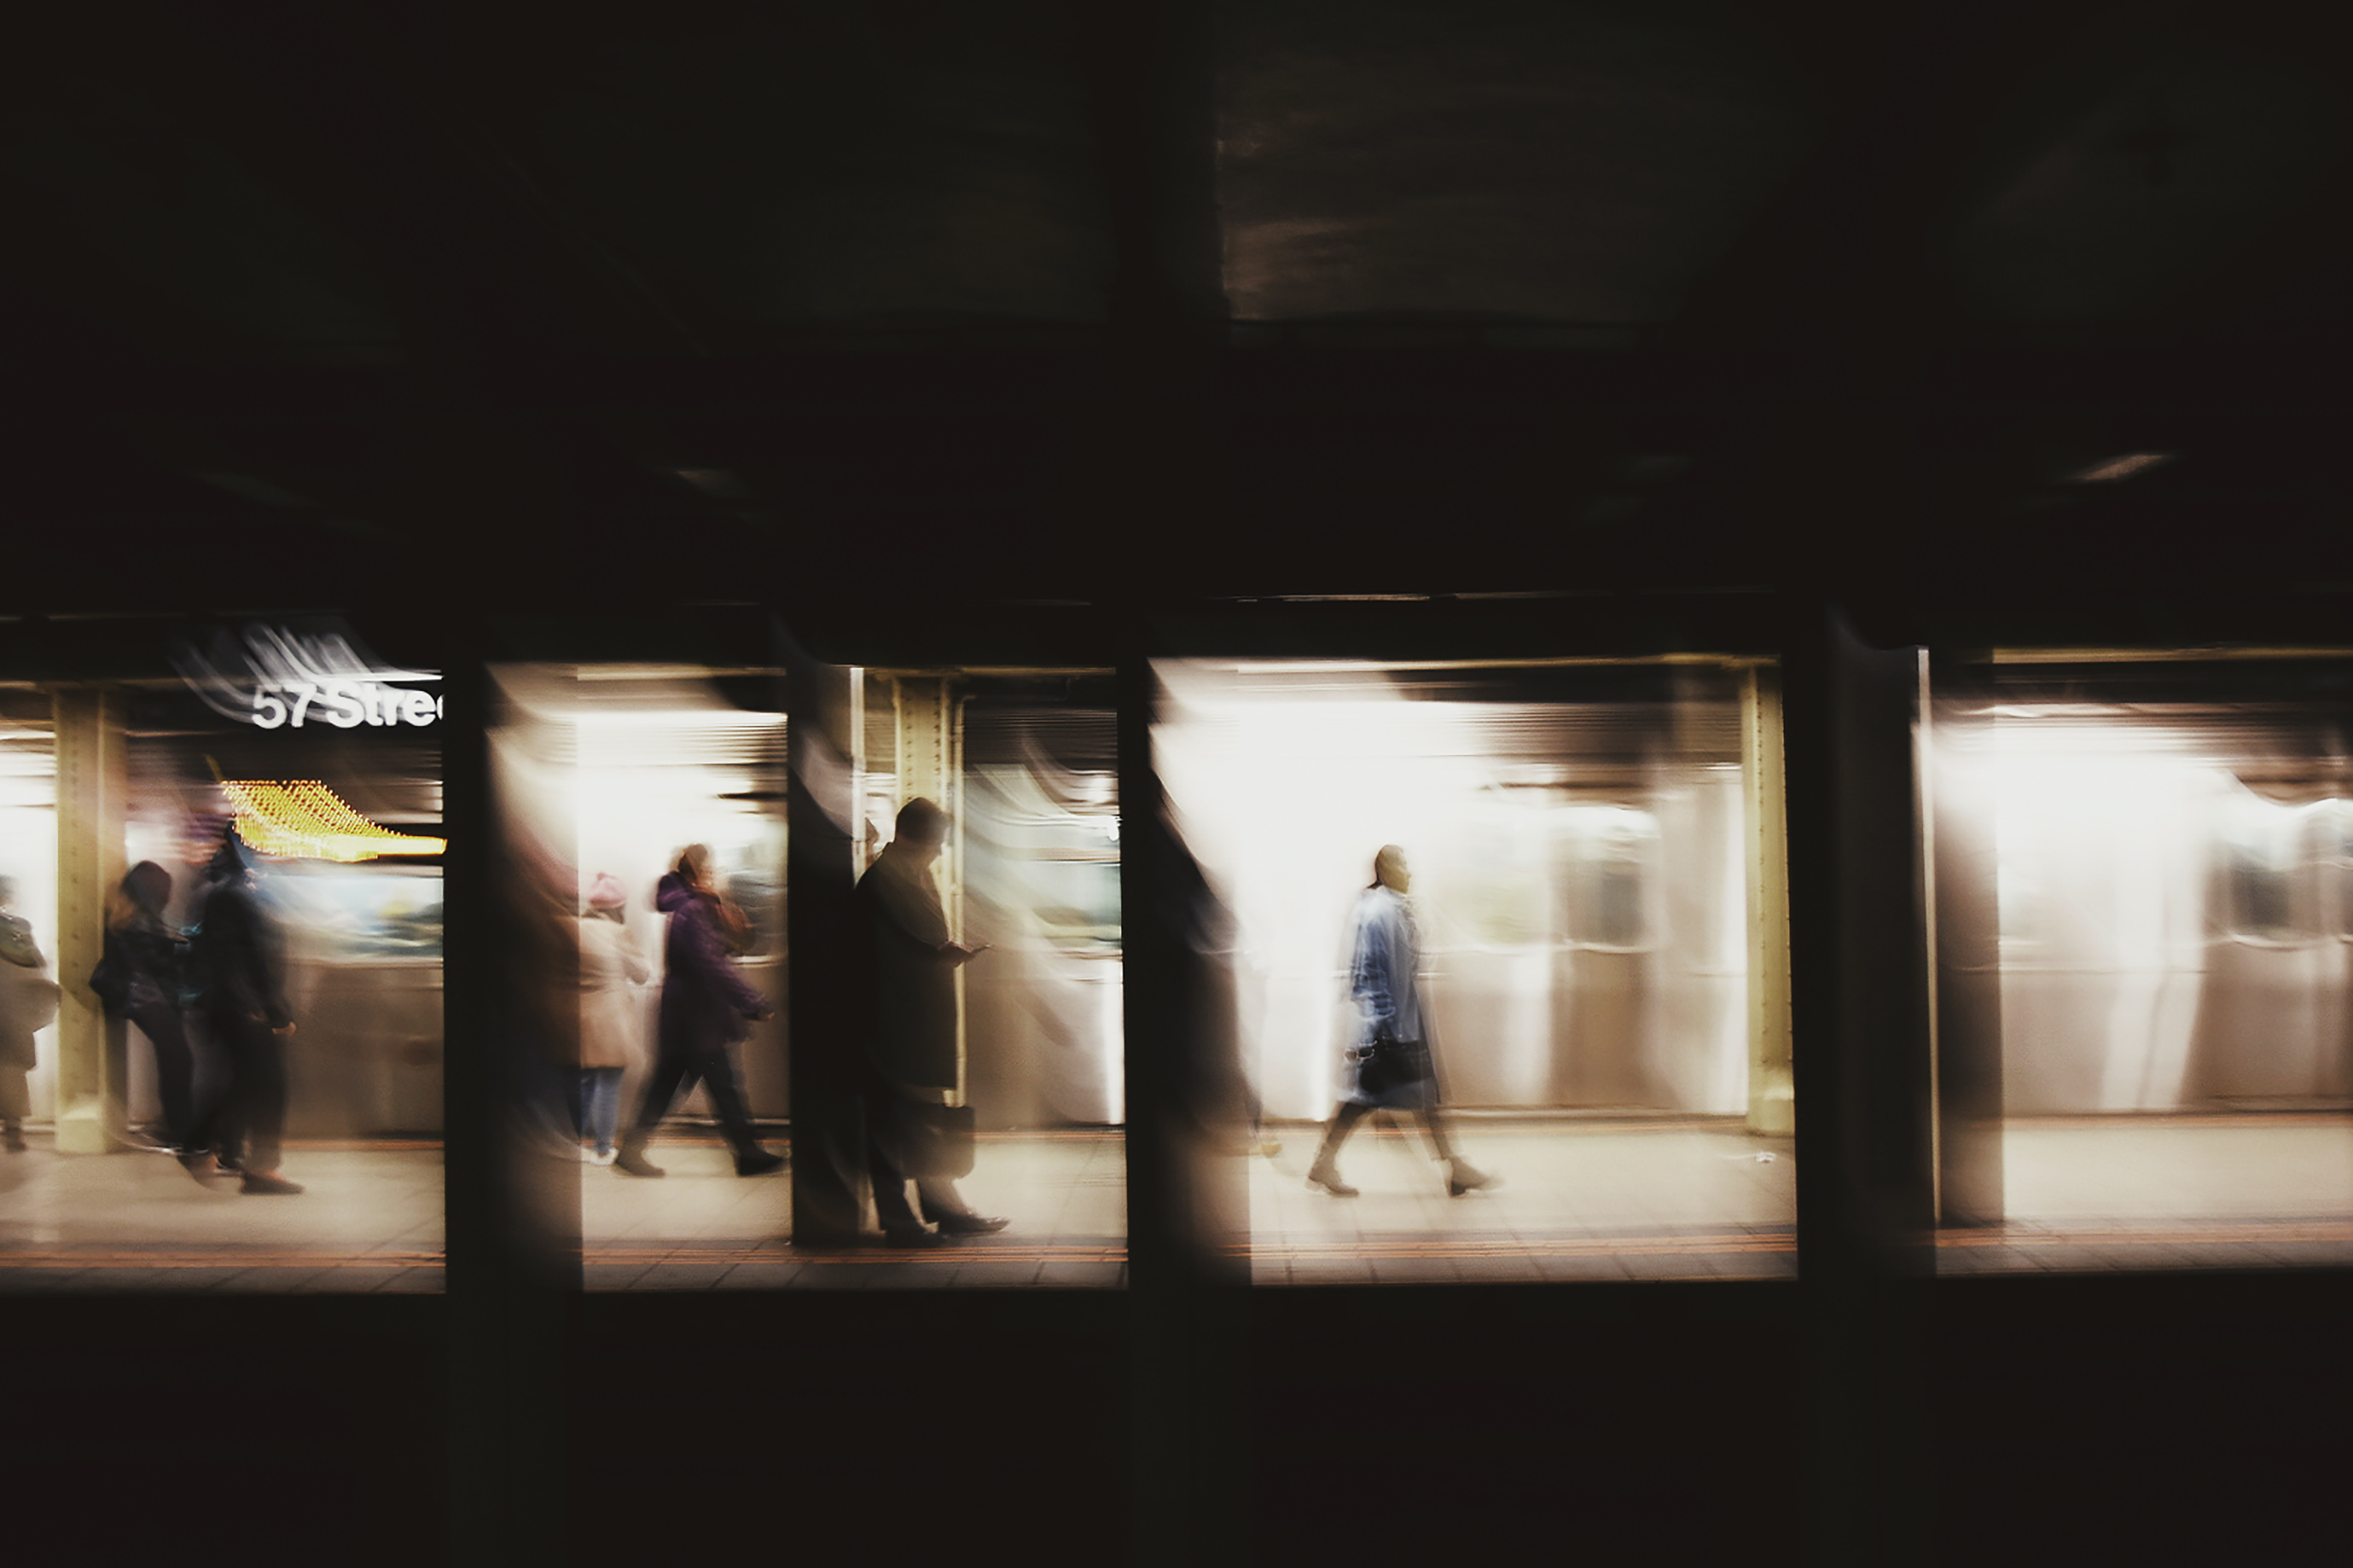
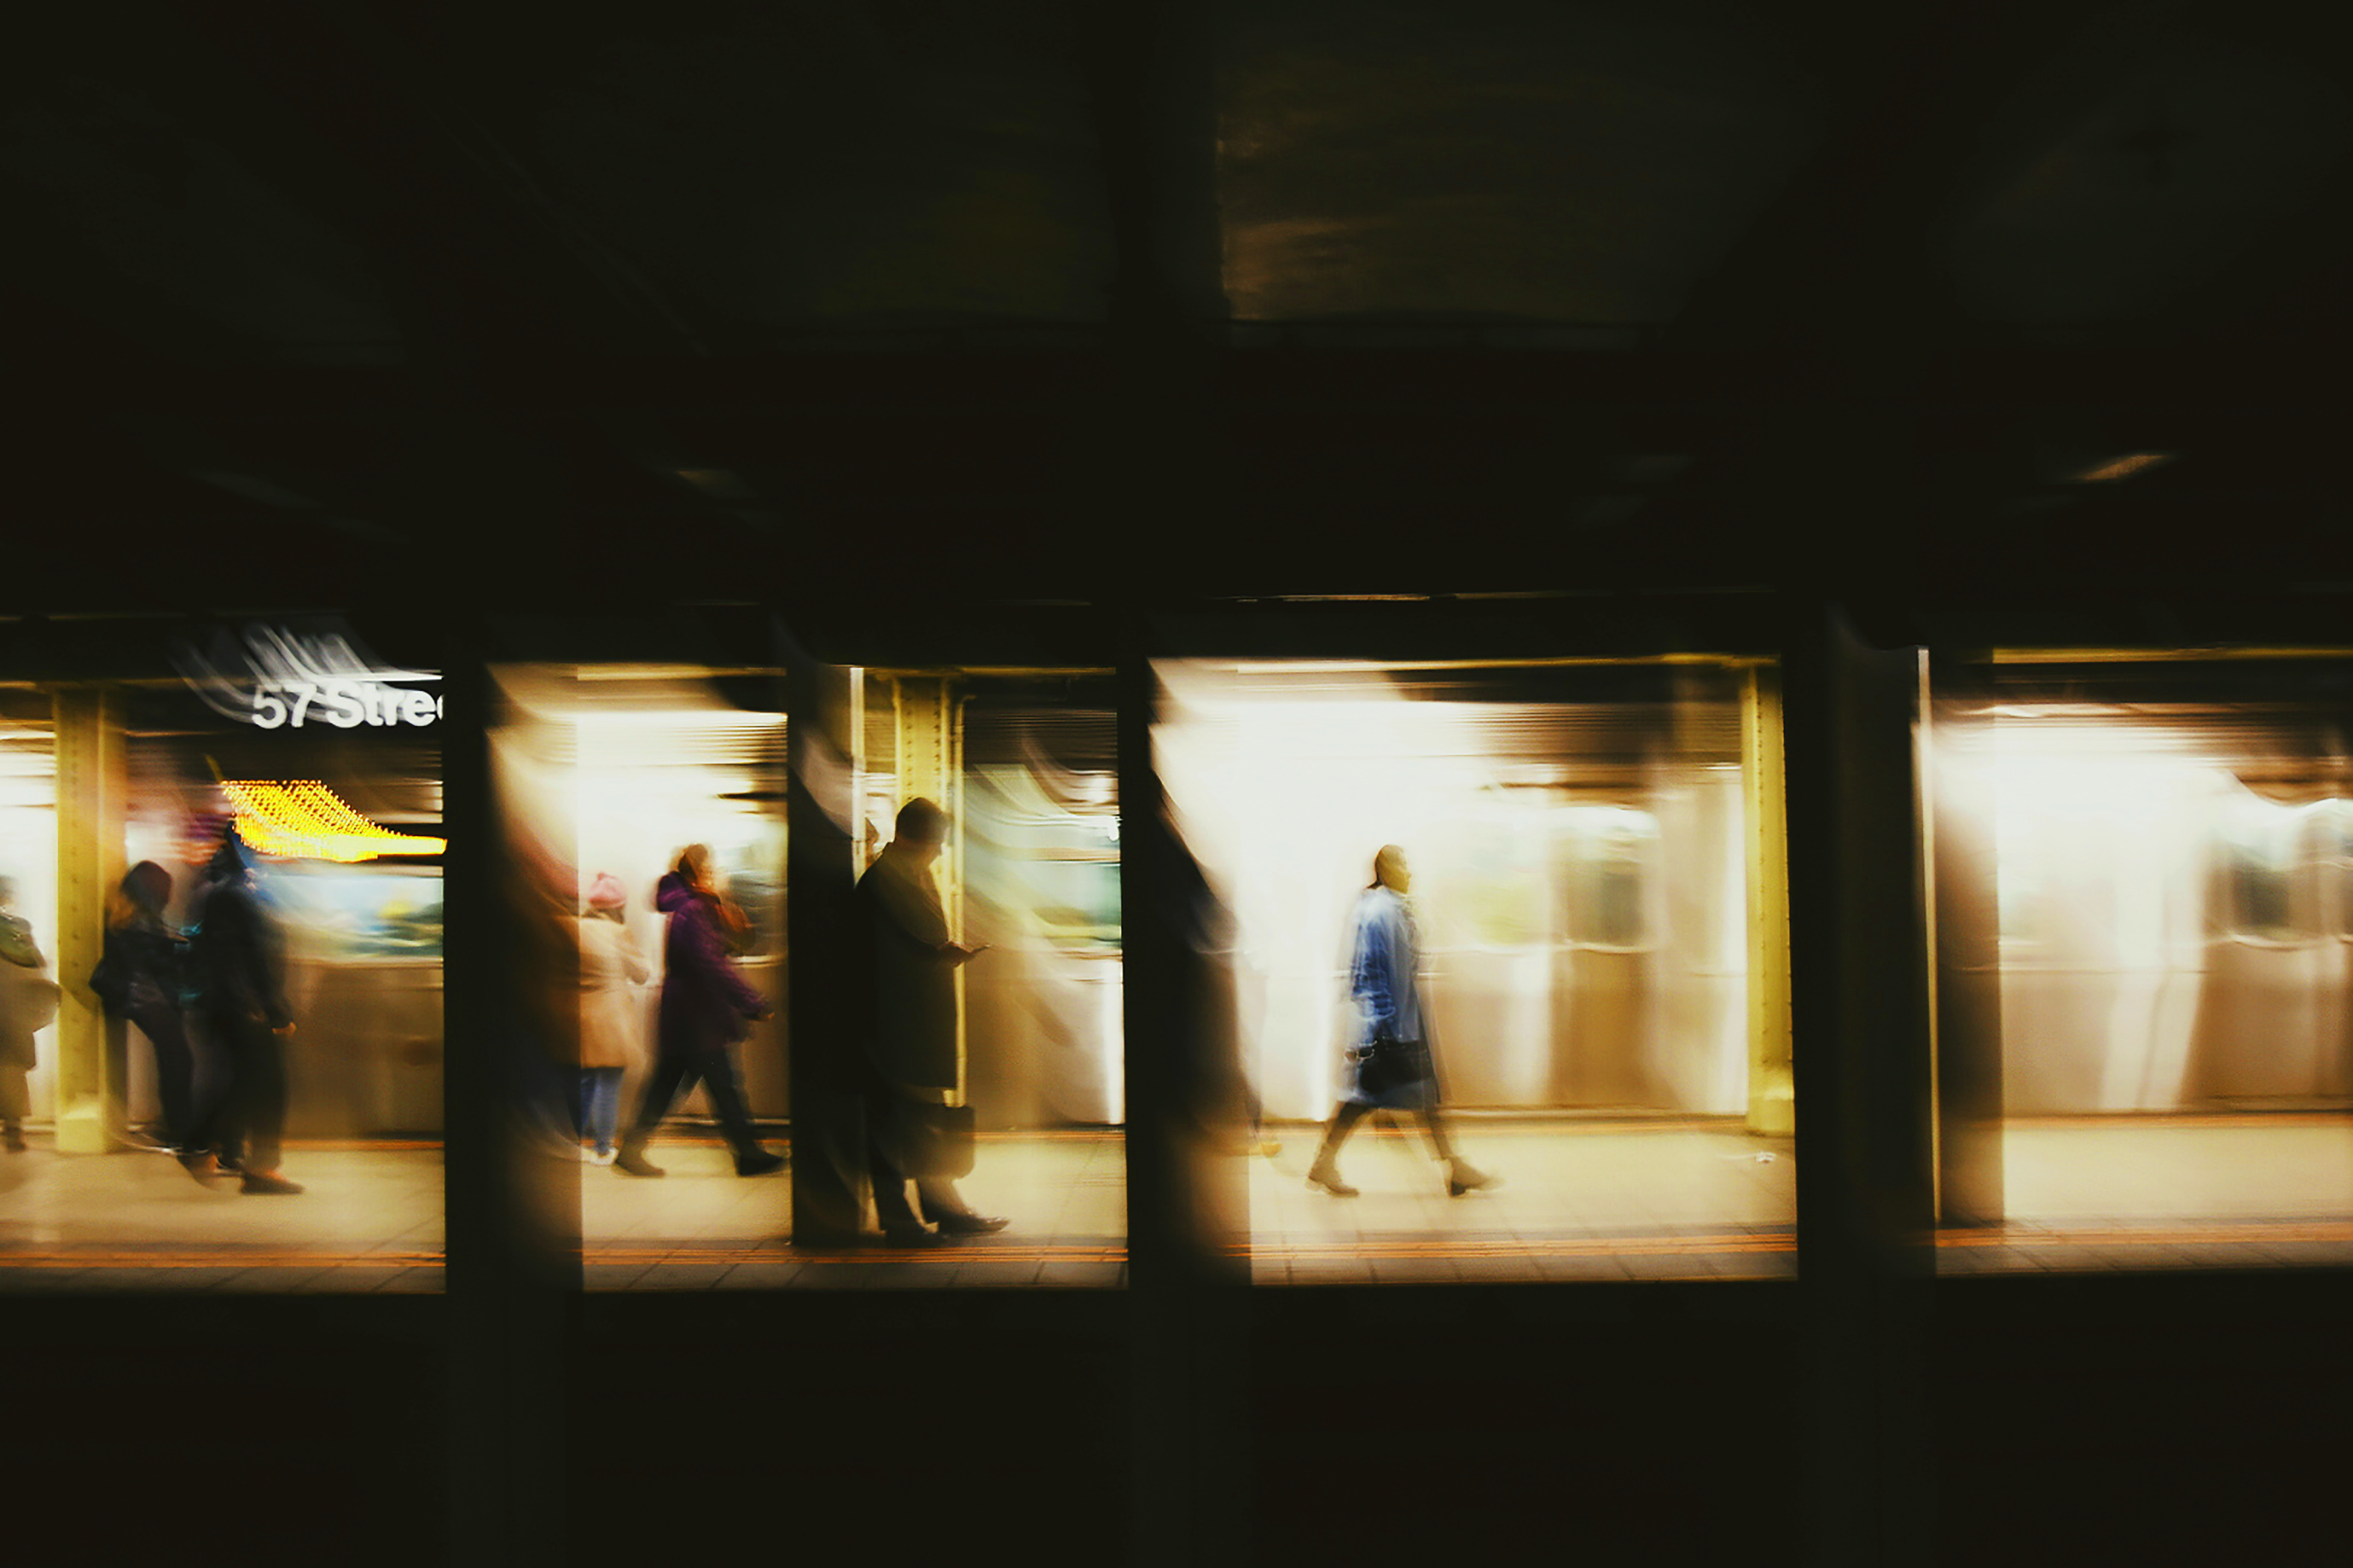
add color refinements

Changed region(s): [[0.0, 0.4032, 0.7793, 0.8375], [0.8105, 0.4032, 1.0, 0.8065], [0.5611, 0.5273, 0.5923, 0.5583]]

diff --git a/css/styles.css b/css/styles.css
@@ -15,9 +15,10 @@ body {
 }
 
 @keyframes bg-transition{
-    0%{background-color: azure;}
-    50%{background-color: #d1d1c5;}
-    100%{background-color: #ffd8c9;}
+    25%{background-color: white;}
+    50%{background-color: #f0f0f0;}
+    75%{background-color: #d1d1c5;}
+    100%{background-color: #ffcfcb;}
 }
 
 #index{
@@ -1346,6 +1347,8 @@ footer h3{
     }
 }
 @media only screen and (max-width: 560px){
+    
+    
     nav div > a{
         font-size: 1rem;
         padding: 1rem 0 1rem 1rem;
@@ -1366,6 +1369,11 @@ footer h3{
     .work a h1{
         right: 7%;
     }
+    
+    .somerb::before, .inspace::before, .remixtype::before, .infodes1::before{
+        font-size: 11px;
+        right: -20px;
+}
     
     .title hr {
         width: 85%;
@@ -1416,14 +1424,27 @@ footer h3{
         grid-template-columns: repeat(2, auto);
         height: 300vh;
     }
+    
     footer h2{
-        font-size: 45px;
+        font-size: 40px;
     }
+    
     footer h2:last-of-type{
-        font-size: 30px;
+        font-size: 25px;
+        line-height: 2rem;
     }
+    
+    footer h3{
+        font-size: .8rem;
+    }
+    
+    footer a{
+        font-size: 15px;
+        line-height: 1.3rem;
+    }
+    
     footer p{
-        font-size: 1rem;
+        font-size: .8rem;
         line-height: 1.6rem;
     }
 }

diff --git a/css/play.css b/css/play.css
@@ -145,7 +145,7 @@ nav.dropdown > div > span{
     height: 100vh;
     text-align: center;
     font-family: 'Hatton', serif;
-    color: #ef5252;
+    color: #fbfdc4;
     display: flex;
     flex-flow: column nowrap;
     justify-content: center;
@@ -467,6 +467,7 @@ nav.dropdown > div > span{
     font-size: 0.6rem;
     line-height: 1rem;
     font-weight: bolder;
+    width: 30%;
 }
 #summer19-intro div{
     margin-bottom: 5%;
@@ -1116,6 +1117,11 @@ body.hidden #la19-intro{opacity: 0;}
     }
     .bg-text:last-of-type{
         top: calc(72.7%);
+    }
+    
+    #summer19-intro p{
+        width: 65%;
+        font-size: 9px;
     }
     
     #chipo-parallax {

diff --git a/play/summer19.html b/play/summer19.html
@@ -33,8 +33,8 @@
             <h3>Summer 2019</h3>
         </div>
         <p>
-            Spring 2019, I got my very first 35mm camera, the Canon A-1.<br>
-            After collabing with various models and makeup artists, here's a series of photos<br>
+            Spring 2019, I got my very first 35mm camera, the Canon A-1.
+            After collabing with various models and makeup artists, here's a series of photos
             I took while experimenting with different film stocks.
         </p>
     </div>

diff --git a/Info_des.html b/Info_des.html
@@ -118,7 +118,7 @@
     </div>  
     <footer>
         <div>
-            <h2>Office hours☺</h2>
+            <h2>Office hours</h2>
             <h2>*12am-12am*<br>*Monday-Sunday*</h2>
         </div>
         <div>

diff --git a/Lost_in_space.html b/Lost_in_space.html
@@ -135,7 +135,7 @@
     </div> 
     <footer>
         <div>
-            <h2>Office hours☺</h2>
+            <h2>Office hours</h2>
             <h2>*12am-12am*<br>*Monday-Sunday*</h2>
         </div>
         <div>

diff --git a/comdes.html b/comdes.html
@@ -131,7 +131,7 @@
     </div>
     <footer>
         <div>
-            <h2>Office hours☺</h2>
+            <h2>Office hours</h2>
             <h2>*12am-12am*<br>*Monday-Sunday*</h2>
         </div>
         <div>

diff --git a/remix_type.html b/remix_type.html
@@ -131,7 +131,7 @@
     </div>
     <footer>
         <div>
-            <h2>Office hours☺</h2>
+            <h2>Office hours</h2>
             <h2>*12am-12am*<br>*Monday-Sunday*</h2>
         </div>
         <div>
